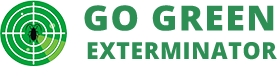
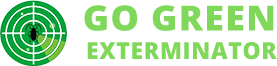
color

Changed region(s): [[0.3177, 0.6364, 1.0, 0.9091], [0.5487, 0.0606, 1.0, 0.4848], [0.2888, 0.0606, 0.5199, 0.4848]]

diff --git a/css/style.css b/css/style.css
@@ -51,13 +51,13 @@
     padding-top: 8px;
     padding-bottom:8px;
     font-size: 18px;
-    color: #2e8f55;
+    color: #7fd85a;
     border-radius:2px;
     padding-left: 20px;padding-right: 20px;
     }
 
     .nav-list .nav-item .gt-quote{
-       background-color: #2e8f55;
+       background-color: #7fd85a;
         /*background-image: -webkit-linear-gradient(0deg, #251c6e 0%, #362a91 52%, #4638b3 100%);*/
         padding-top: 10px;
         padding-bottom:10px;
@@ -70,7 +70,7 @@
         }
 
         .nav-list .nav-item .gt-quote:hover{
-            background-color:#2e8f55;
+            background-color:#7fd85a;
             color: #fff !important;
         }
     
@@ -80,17 +80,17 @@
     font-size: 22px;
     vertical-align: -3px;
     margin-left: 10px;
-    color: #2e8f55;
+    color: #7fd85a;
     }
 
 
     .main-navigation .nav-list .nav-link:hover{
     cursor: pointer;
-    color: #2e8f55;
+    color: #7fd85a;
     }
 
     .nav-list .nav-item .btn-nav-book:hover{
-        color: #2e8f55;
+        color: #7fd85a;
     
     background-color: transparent;
     }
@@ -237,7 +237,7 @@
      /*contact us section*/
 
     #contact-section{
-    background-image: url(../img/home-page.jpg);
+    background-image: url(../img/home-page-2.jpg);
     position: relative;
     background-repeat: no-repeat;
     padding:120px 0 10px;
@@ -300,7 +300,7 @@
 
     .contact-informations .slider-btn{
 
-        background-color: #fbbb09;
+        background-color: #19a2f3;
        
         padding-top:12px;
         padding-bottom: 12px;
@@ -329,7 +329,7 @@
     #info-description{
         padding-top: 50px;
         padding-bottom: 50px;
-        background-color: #2e8f55;
+        background-color: #7fd85a;
     }
 
     .info-left-side h2{
@@ -415,7 +415,7 @@
     }
 
     .info-left-side h4 .fa{
-        color: #2e8f55;
+        color: #7fd85a;
         font-size: 15px;
         margin-right: 10px;
      
@@ -462,7 +462,7 @@
     .green {
         padding-top: 20px;
         padding-bottom: 20px;
-        background-color: #00904f;
+        background-color: #7fd85a;
     }
 
     .bug-list{
@@ -741,7 +741,7 @@
     }
 
     .get-contact {
-        background-color: #2e8f55;
+        background-color: #7fd85a;
         padding-top: 16px;
         padding-bottom: 16px;
         font-size: 19px;
@@ -1282,13 +1282,13 @@
         margin-right: auto;
         width: 100%;
         margin-top: 25px;
-        background-color: #2e8f55;
+        background-color: #7fd85a;
         padding-top: 15px;
         padding-bottom: 15px;
         }
     
         .contact-box-home .contact-us-form  .send-message:hover{
-        background-color: #2e8f55;
+        background-color: #7fd85a;
         }
     
         .contact-box-home .contact-us-form .contact-form-control{
